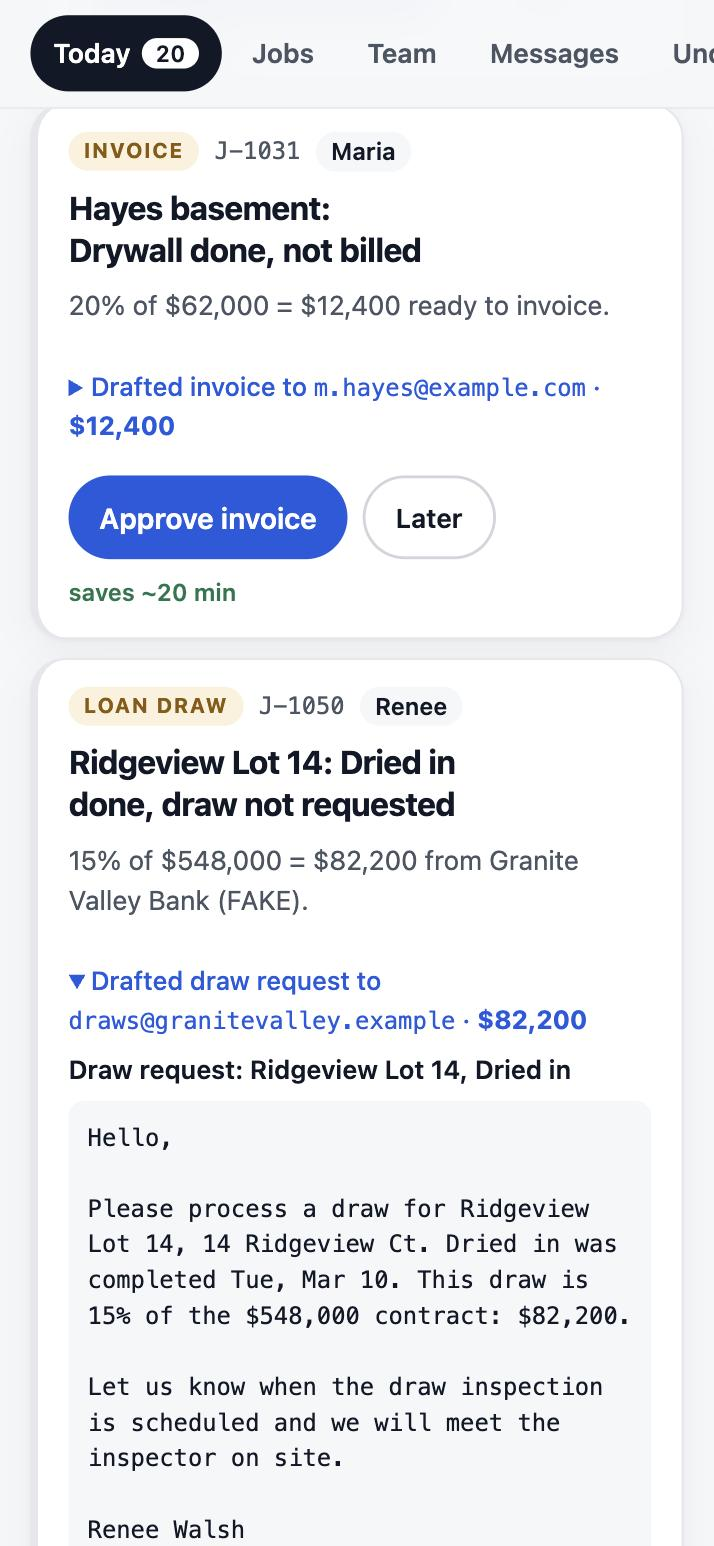
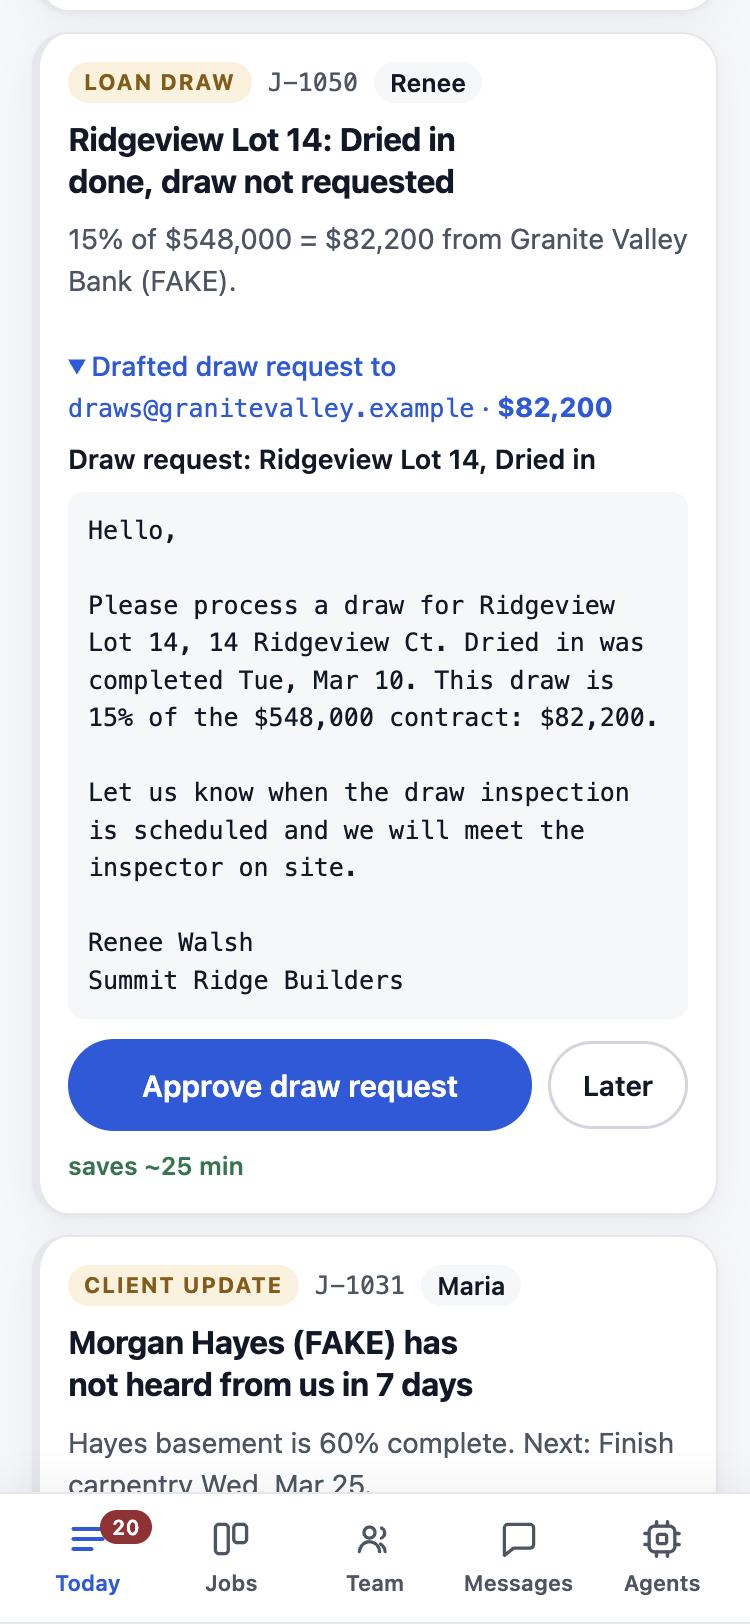
All construction sectors; on-site layouts for iPhone and iPad (#29)

diff --git a/dashboard/static/dashboard.css b/dashboard/static/dashboard.css
@@ -770,3 +770,79 @@ section .eng { box-shadow: none; }
 .kpi.accent b, .kpi.accent span { color: var(--on-accent); }
 /* Landing sections sit on the page; only their cards are panels. */
 .landing section.land-section, .landing section.land-proof { border: 0; box-shadow: none; background: none; }
+
+/* ---- On site: iPhone and iPad ------------------------------------------------------------
+   Phones get an iOS-style bottom tab bar (thumb reach, always visible), a quiet header,
+   and tighter cards. iPads keep the top tabs and use two columns. */
+.tab-ico { display: none; width: 22px; height: 22px; fill: none; stroke: currentColor; stroke-width: 1.8; stroke-linecap: round; stroke-linejoin: round; }
+.tab-short { display: none; }
+
+@media (max-width: 640px) {
+  /* Header: brand and date only; connection status moves into the summary card's context. */
+  .top { padding-block: 10px; }
+  .integrations .chip.draft, .integrations .chip.user { display: none; }
+  .integrations { gap: 6px; }
+  .integrations .chip { font-size: 12px; padding: 4px 10px; }
+
+  /* Bottom tab bar */
+  .tabs {
+    position: fixed; z-index: 40; left: 0; right: 0; bottom: 0; top: auto;
+    display: grid; grid-template-columns: repeat(5, 1fr); gap: 0; overflow: visible;
+    margin: 0; padding: 6px max(8px, env(safe-area-inset-left, 0px)) calc(6px + env(safe-area-inset-bottom, 0px)) max(8px, env(safe-area-inset-right, 0px));
+    background: var(--paper); border-top: 1px solid var(--line); box-shadow: 0 -4px 18px rgba(17, 24, 39, 0.06);
+  }
+  .tabs a {
+    position: relative; flex-direction: column; justify-content: center; gap: 3px; min-height: 52px; padding: 4px 2px;
+    border-radius: 12px; font-size: 11px; font-weight: 600; color: var(--muted); background: none;
+  }
+  .tabs a.on { background: none; color: var(--accent); }
+  .tabs a.on .tab-ico { stroke-width: 2.2; }
+  .tab-ico { display: block; }
+  .tab-long { display: none; } .tab-short { display: inline; }
+  .tabs .count { position: absolute; top: 2px; left: calc(50% + 6px); font-size: 10.5px; padding: 0 6px; line-height: 17px; background: var(--bad); color: #fff; }
+  .tabs a.on .count { background: var(--bad); color: #fff; }
+  main { padding-bottom: calc(84px + env(safe-area-inset-bottom, 0px)); }
+  .tour { bottom: calc(76px + env(safe-area-inset-bottom, 0px)); }
+
+  /* Cards: a little tighter and calmer */
+  section, .since { padding: 16px; border-radius: 16px; }
+  .summary h1 { font-size: 26px; }
+  .summary .lede { font-size: 14.5px; }
+  .kpis { grid-template-columns: 1fr 1fr; }
+  .kpis .status-kpi, .kpis .kpi.accent { grid-column: 1 / -1; }
+  .qcard { padding: 14px; }
+  .qcard h3 { font-size: 16px; }
+  .qactions { flex-wrap: wrap; }
+  .qactions .approve { flex: 1 1 auto; min-height: 46px; }
+  .found, .filters { margin-inline: -2px; }
+}
+
+/* iPad portrait and landscape: room for two columns of cards and the full tab labels. */
+@media (min-width: 641px) and (max-width: 1180px) {
+  .tabs { justify-content: flex-start; }
+  .queue-list { grid-template-columns: repeat(2, minmax(0, 1fr)); }
+  .summary { grid-template-columns: minmax(0, 1fr) minmax(0, 1fr); align-items: start; }
+  .eng-grid, .pain-grid, .life-grid { grid-template-columns: repeat(2, minmax(0, 1fr)); }
+  .since-groups { grid-template-columns: repeat(2, minmax(0, 1fr)); }
+}
+@media (max-width: 640px) {
+  .top { flex-wrap: nowrap; gap: 8px; }
+  .integrations { flex-wrap: nowrap; margin-left: auto; }
+  .integrations .chip { white-space: nowrap; }
+}
+@media (max-width: 360px) { .integrations a.chip { display: none; } }
+@media (max-width: 1180px) {
+  .kpis { grid-template-columns: 1fr 1fr; }
+  .kpis .status-kpi, .kpis .kpi.accent { grid-column: 1 / -1; }
+  .donut-legend span { white-space: nowrap; }
+}
+@media (max-width: 640px) {
+  .integrations .chip.ok, .integrations .chip.off { display: none; }
+  .integrations a.chip { border: 0; background: none; padding: 6px 2px; color: var(--accent); font-weight: 600; font-size: 14px; }
+  .brand strong { white-space: nowrap; }
+}
+@media (max-width: 360px) { .integrations a.chip { display: inline-flex; } }
+@media (max-width: 640px) {
+  .integrations { width: auto; flex: none; overflow: visible; }
+  .brand { flex: 1 1 auto; }
+}

diff --git a/dashboard/templates/_app.html b/dashboard/templates/_app.html
@@ -41,11 +41,11 @@
 </header>
 
 <nav class="tabs" aria-label="Views">
-  <a href="#today" data-tab="today">Today <b class="count" data-count="open">{{ t.queue|length }}</b></a>
-  <a href="#jobs" data-tab="jobs">Jobs</a>
-  <a href="#team" data-tab="team">Team</a>
-  <a href="#messages" data-tab="messages">Messages</a>
-  <a href="#hood" data-tab="hood">Under the hood</a>
+  <a href="#today" data-tab="today"><svg class="tab-ico" viewBox="0 0 24 24" aria-hidden="true"><path d="M4 6.5h16M4 12h16M4 17.5h10"/></svg><span class="tab-label">Today</span> <b class="count" data-count="open">{{ t.queue|length }}</b></a>
+  <a href="#jobs" data-tab="jobs"><svg class="tab-ico" viewBox="0 0 24 24" aria-hidden="true"><rect x="3.5" y="4" width="7" height="16" rx="2"/><rect x="13.5" y="4" width="7" height="10" rx="2"/></svg><span class="tab-label">Jobs</span></a>
+  <a href="#team" data-tab="team"><svg class="tab-ico" viewBox="0 0 24 24" aria-hidden="true"><circle cx="9" cy="8.5" r="3"/><path d="M3.5 19a5.5 5.5 0 0 1 11 0"/><path d="M15.5 6a3 3 0 0 1 0 5.5M17.5 19a5 5 0 0 0-2.5-4.3"/></svg><span class="tab-label">Team</span></a>
+  <a href="#messages" data-tab="messages"><svg class="tab-ico" viewBox="0 0 24 24" aria-hidden="true"><path d="M4 6a2 2 0 0 1 2-2h12a2 2 0 0 1 2 2v9a2 2 0 0 1-2 2H9l-5 4z"/></svg><span class="tab-label">Messages</span></a>
+  <a href="#hood" data-tab="hood"><svg class="tab-ico" viewBox="0 0 24 24" aria-hidden="true"><rect x="5" y="5" width="14" height="14" rx="3"/><path d="M9 2.5v2.5M15 2.5v2.5M9 19v2.5M15 19v2.5M2.5 9h2.5M2.5 15h2.5M19 9h2.5M19 15h2.5"/><rect x="9.5" y="9.5" width="5" height="5" rx="1"/></svg><span class="tab-label"><span class="tab-long">Under the hood</span><span class="tab-short">Agents</span></span></a>
 </nav>
 
 <main>

diff --git a/dashboard/templates/index.html b/dashboard/templates/index.html
@@ -3,7 +3,7 @@
 <head>
   <meta charset="utf-8">
   <meta name="viewport" content="width=device-width, initial-scale=1, viewport-fit=cover">
-  <title>Benchmark · AI agents for new-home builders</title>
+  <title>Benchmark · AI agents for construction PMs</title>
   {%- set share_text = "Every morning, Benchmark's AI agents check every home, trade and PM, then draft the follow-ups: loan draws, late orders, buyer selections, closing risks. A person approves everything." %}
   <meta name="description" content="{{ share_text }}">
   <meta property="og:type" content="website">
@@ -14,7 +14,7 @@
   <meta property="og:image" content="{{ site_url }}/static/og.jpg">
   <meta property="og:image:width" content="1200">
   <meta property="og:image:height" content="630">
-  <meta property="og:image:alt" content="Benchmark: AI agents for new-home builders. Every morning, the follow-ups are already written.">
+  <meta property="og:image:alt" content="Benchmark: AI agents for construction project managers. Every morning, the follow-ups are already written.">
   <meta name="twitter:card" content="summary_large_image">
   <meta name="theme-color" content="#f3f0e8" media="(prefers-color-scheme: light)">
   <meta name="theme-color" content="#141311" media="(prefers-color-scheme: dark)">

diff --git a/dashboard/templates/_welcome.html b/dashboard/templates/_welcome.html
@@ -8,7 +8,7 @@
 
   <div class="land-hero land-stage">
     <div class="land-pitch">
-      <span class="land-eyebrow">For new-home builders</span>
+      <span class="land-eyebrow">For construction project managers</span>
       <h2 class="land-title">Every morning, the follow-ups are <em>already written.</em></h2>
       <p class="land-sub">Benchmark's AI agents check every home, trade and PM before anyone gets in: insurance, permits, orders, buyer selections, loan draws and closing dates. Then they draft the fix. Your PMs approve in one tap. Nothing goes out without a person.</p>
       <ul class="land-ticks">

diff --git a/dashboard/tests/test_dashboard.py b/dashboard/tests/test_dashboard.py
@@ -186,7 +186,7 @@ class AppTest(unittest.TestCase):
 
     def test_landing_uses_the_demo_numbers_not_claims(self):
         page = self.app.test_client().get("/").get_data(as_text=True)
-        self.assertIn("For new-home builders", page)
+        self.assertIn("For construction project managers", page)
         self.assertIn("$82,200", page)  # the draw the Coordinator drafted
         self.assertIn("the sample builder in the demo", page)
         self.assertIn("Lien waivers before final payments", page)  # a real check name from the sweep

diff --git a/README.md b/README.md
@@ -1,6 +1,6 @@
 # Benchmark
 
-**An agent team for new-home builders. Every morning it checks every home, trade and project manager, then drafts the follow-ups. A person approves anything before it leaves the building.**
+**An agent team for construction project managers. Every morning it checks every job, trade and PM, then drafts the follow-ups. A person approves anything before it leaves the building.**
 
 [![CI](https://github.com/saltylvn/benchmark-ai/actions/workflows/ci.yml/badge.svg)](https://github.com/saltylvn/benchmark-ai/actions/workflows/ci.yml)
 &nbsp;**Live demo:** [benchmark-qypb.onrender.com](https://benchmark-qypb.onrender.com) (tap **View the demo**; the free host may take ~1 minute to wake)
@@ -10,6 +10,10 @@
   <img src="docs/images/screens/today-phone.jpg" width="24%" alt="Today: what is blocked and what is already drafted">
   <img src="docs/images/screens/draw-request-phone.jpg" width="24%" alt="A drafted construction-loan draw request waiting for approval">
   <img src="docs/images/screens/today-phone-dark.jpg" width="24%" alt="Today in dark mode">
+</p>
+<p>
+  <img src="docs/images/screens/ipad-today.jpg" width="37%" alt="Today on iPad: summary, metrics and what changed since yesterday">
+  <img src="docs/images/screens/ipad-queue.jpg" width="37%" alt="The approval queue on iPad in two columns">
 </p>
 <img src="docs/images/screens/workflow-desktop.jpg" width="74%" alt="The morning workflow: schedule, Coordinator agent and its checks, drafts behind a fact guard, human approval, then Slack, email drafts and signed webhooks">
 <img src="docs/images/screens/board-desktop.jpg" width="74%" alt="Where every job stands: a board by stage with status, progress and what changed since yesterday">
@@ -34,7 +38,7 @@ A new-home PM runs 6 to 10 houses at once, each with a lender, a buyer, 15 to 25
 | Crews double-booked, quotes due, late milestones | A proposed resolution |
 | PM workload against capacity | A handoff proposal |
 
-The PM gets one queue, in a clean interface built for a phone between site visits: **Approve** or **Later** on each card, a "since yesterday" diff, a two-week look-ahead, a status board and timeline, team load, an 8:00 Slack brief, and a guided tour. It works on iPhone, iPad and desktop and installs to the home screen.
+The PM gets one queue, in a clean interface built for a phone between site visits: **Approve** or **Later** on each card, a "since yesterday" diff, a two-week look-ahead, a status board and timeline, team load, an 8:00 Slack brief, and a guided tour. It is built for the field: an iOS-style bottom tab bar on iPhone, two-column layouts on iPad, and a full dashboard on desktop. It installs to the home screen.
 
 ---
 
